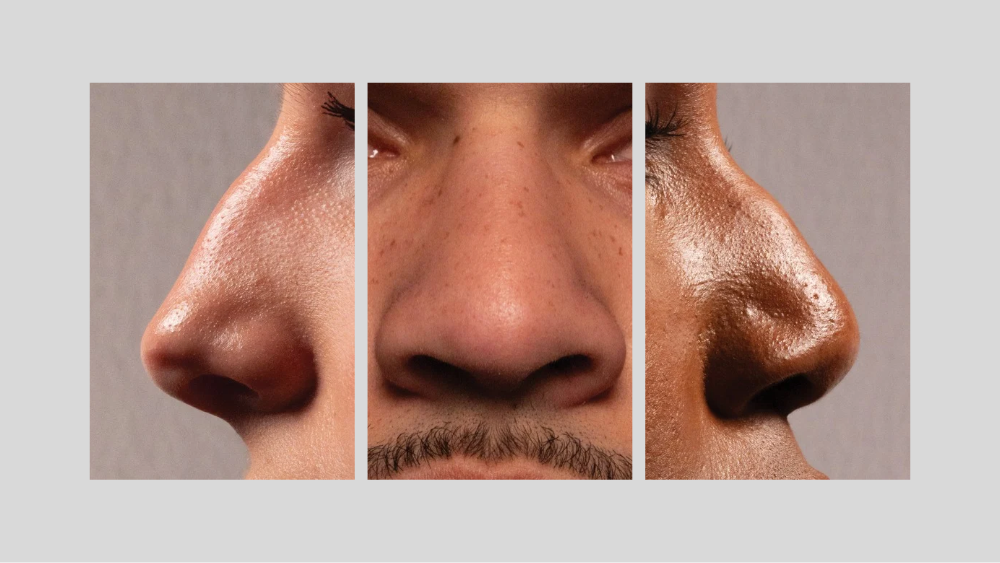
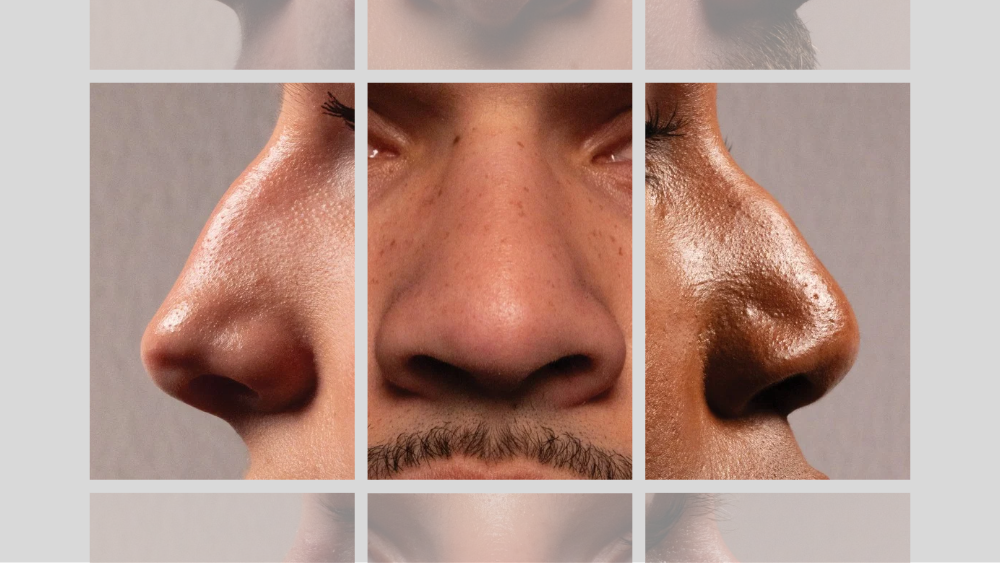
Update Stories “the-art-of-being-nosey-1”

Changed region(s): [[0.093, 0.8757, 0.93, 1.0], [0.093, 0.0, 0.93, 0.151]]

diff --git a/src/stories/the-art-of-being-nosey-1.md b/src/stories/the-art-of-being-nosey-1.md
@@ -6,7 +6,7 @@ author: map-layout-layouts-author-njk-role-author-permalink-authors-martin-milev
 date: 2026-10-19T19:33:00.000+03:00
 imageAspect: landscape
 image: /assets/uploads/cover-1.png
-showTopImage: false
+showTopImage: true
 ---
 <figure class="inline-float inline-float-center inline-float-full">
 <img src="/assets/uploads/1-freddie.png" alt="">
